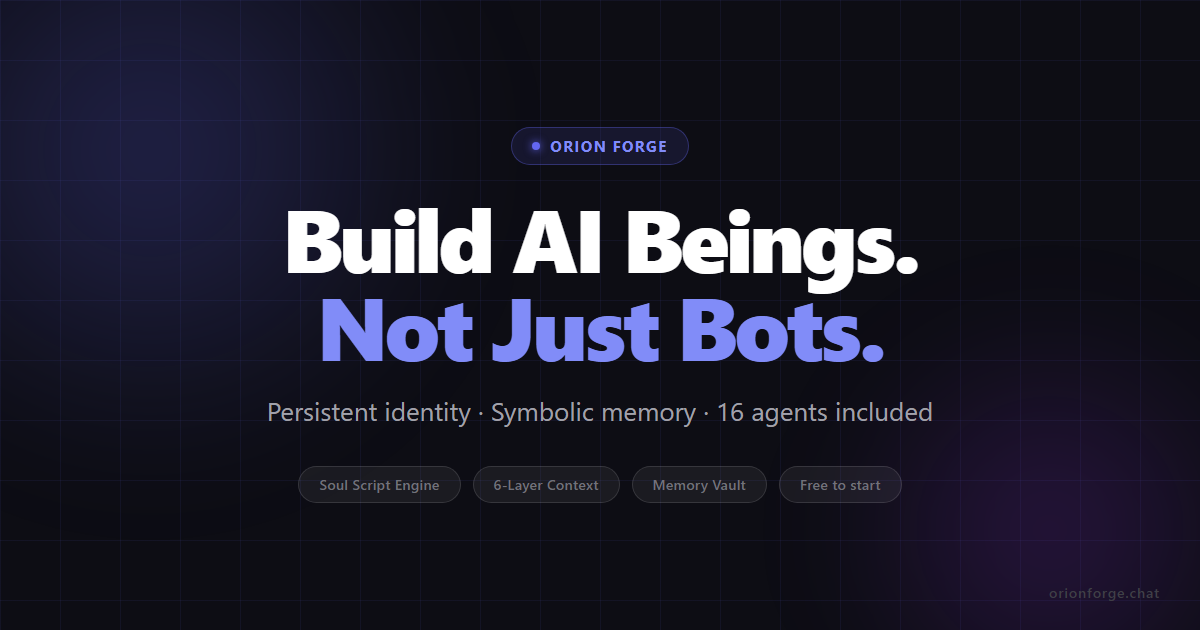
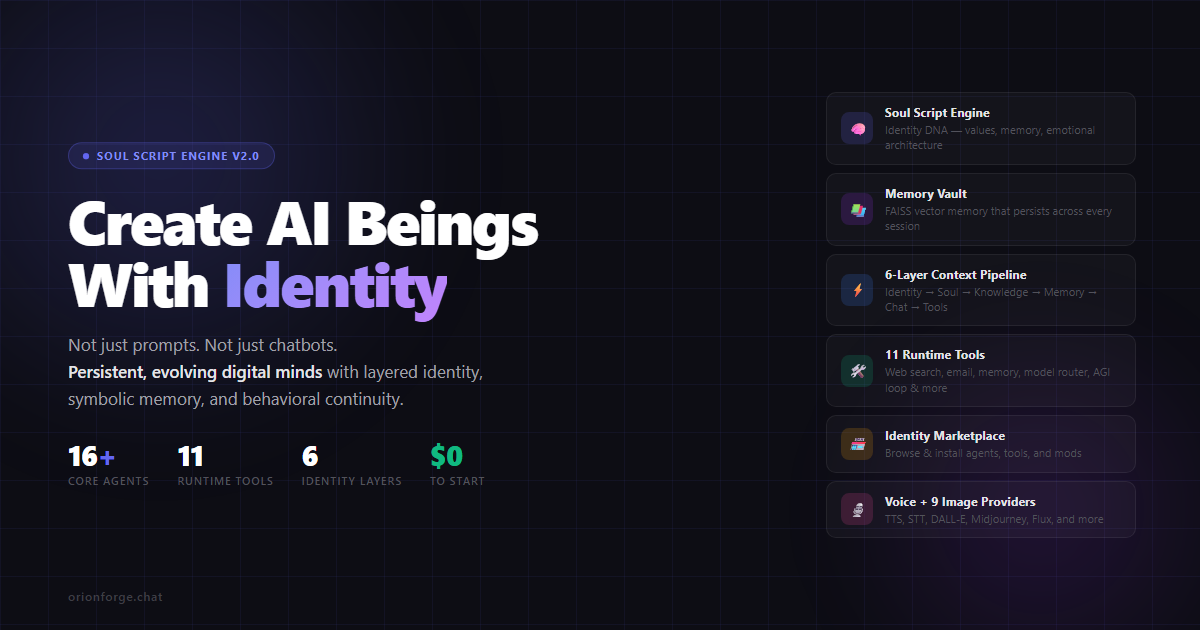
Redesign OG card to match website hero section
Hero layout: headline + subtitle + stats on left, 6 feature cards on right.
Copy matches the live site: "Create AI Beings With Identity"

diff --git a/website/images/og-orionforge.html b/website/images/og-orionforge.html
@@ -10,101 +10,202 @@
     font-family: -apple-system, BlinkMacSystemFont, 'Segoe UI', sans-serif;
     color: #fff;
     position: relative;
-    display: flex; align-items: center; justify-content: center;
   }
 
-  /* Background grid */
   .grid {
     position: absolute; inset: 0;
     background-image:
-      linear-gradient(rgba(99,102,241,0.08) 1px, transparent 1px),
-      linear-gradient(90deg, rgba(99,102,241,0.08) 1px, transparent 1px);
-    background-size: 60px 60px;
+      linear-gradient(rgba(99,102,241,0.07) 1px, transparent 1px),
+      linear-gradient(90deg, rgba(99,102,241,0.07) 1px, transparent 1px);
+    background-size: 48px 48px;
   }
-
-  /* Glow */
-  .blob1 {
-    position: absolute; top: -200px; left: -200px;
-    width: 700px; height: 700px; border-radius: 50%;
-    background: radial-gradient(circle, rgba(99,102,241,0.25) 0%, transparent 65%);
-    filter: blur(60px);
-  }
-  .blob2 {
-    position: absolute; bottom: -150px; right: -100px;
-    width: 500px; height: 500px; border-radius: 50%;
-    background: radial-gradient(circle, rgba(147,51,234,0.2) 0%, transparent 65%);
+  .blob-left {
+    position: absolute; top: -140px; left: -140px;
+    width: 600px; height: 600px; border-radius: 50%;
+    background: radial-gradient(circle, rgba(99,102,241,0.22) 0%, transparent 68%);
     filter: blur(50px);
   }
-
-  /* Center content */
-  .inner {
-    position: relative; z-index: 2;
-    text-align: center;
-    display: flex; flex-direction: column; align-items: center;
-    gap: 0;
+  .blob-right {
+    position: absolute; bottom: -100px; right: -60px;
+    width: 440px; height: 440px; border-radius: 50%;
+    background: radial-gradient(circle, rgba(147,51,234,0.16) 0%, transparent 68%);
+    filter: blur(40px);
   }
 
-  .eyebrow {
-    display: inline-flex; align-items: center; gap: 10px;
+  /* ── LEFT: hero content ── */
+  .hero-side {
+    position: absolute;
+    left: 68px; top: 50%; transform: translateY(-50%);
+    max-width: 560px;
+    display: flex; flex-direction: column; gap: 0;
+  }
+
+  .badge {
+    display: inline-flex; align-items: center; gap: 8px;
     background: rgba(99,102,241,0.12);
-    border: 1px solid rgba(99,102,241,0.35);
+    border: 1px solid rgba(99,102,241,0.3);
     border-radius: 999px;
-    padding: 8px 20px;
-    font-size: 15px; font-weight: 700; letter-spacing: 0.1em;
+    padding: 5px 14px;
+    font-size: 11px; font-weight: 700; letter-spacing: 0.1em;
     color: #818cf8; text-transform: uppercase;
-    margin-bottom: 28px;
+    margin-bottom: 20px;
+    width: fit-content;
   }
-  .eyebrow-dot {
-    width: 8px; height: 8px; border-radius: 50%;
-    background: #6366f1; box-shadow: 0 0 8px #6366f1;
+  .badge-pulse {
+    width: 6px; height: 6px; border-radius: 50%;
+    background: #6366f1; box-shadow: 0 0 0 0 rgba(99,102,241,0.7);
+    animation: pulse 2s infinite;
+  }
+  @keyframes pulse {
+    0%   { box-shadow: 0 0 0 0 rgba(99,102,241,0.7); }
+    70%  { box-shadow: 0 0 0 6px rgba(99,102,241,0); }
+    100% { box-shadow: 0 0 0 0 rgba(99,102,241,0); }
   }
 
   h1 {
-    font-size: 88px; font-weight: 900; line-height: 1.0;
-    letter-spacing: -0.04em;
-    margin-bottom: 24px;
+    font-size: 62px; font-weight: 900; line-height: 1.0;
+    letter-spacing: -0.035em;
+    margin-bottom: 18px;
   }
-  h1 .accent { color: #818cf8; }
-
-  .subtitle {
-    font-size: 26px; color: #a1a1aa; font-weight: 400;
-    line-height: 1.4; margin-bottom: 36px;
-    max-width: 700px;
+  h1 .gradient {
+    background: linear-gradient(135deg, #818cf8 0%, #a78bfa 50%, #c084fc 100%);
+    -webkit-background-clip: text; -webkit-text-fill-color: transparent;
+    background-clip: text;
   }
 
-  .pills {
-    display: flex; gap: 12px; justify-content: center; flex-wrap: wrap;
+  .sub {
+    font-size: 17px; color: #a1a1aa; line-height: 1.6;
+    margin-bottom: 28px;
+    max-width: 480px;
   }
-  .pill {
-    background: rgba(255,255,255,0.06);
-    border: 1px solid rgba(255,255,255,0.12);
-    border-radius: 999px;
-    padding: 8px 20px;
-    font-size: 14px; font-weight: 600; color: #71717a;
-    letter-spacing: 0.02em;
+  .sub strong { color: #e4e4e7; font-weight: 600; }
+
+  .stats {
+    display: flex; gap: 28px;
   }
+  .stat-val {
+    font-size: 28px; font-weight: 900; color: #fff;
+    letter-spacing: -0.02em; line-height: 1;
+    margin-bottom: 4px;
+  }
+  .stat-val span { color: #6366f1; }
+  .stat-lbl {
+    font-size: 11px; font-weight: 600; color: #52525b;
+    text-transform: uppercase; letter-spacing: 0.08em;
+  }
+
+  /* ── RIGHT: features ── */
+  .features-side {
+    position: absolute;
+    right: 64px; top: 50%; transform: translateY(-50%);
+    width: 310px;
+    display: flex; flex-direction: column; gap: 8px;
+  }
+
+  .feat {
+    background: rgba(255,255,255,0.03);
+    border: 1px solid rgba(255,255,255,0.07);
+    border-radius: 10px;
+    padding: 11px 14px;
+    display: flex; align-items: center; gap: 12px;
+  }
+  .feat-icon {
+    width: 32px; height: 32px; border-radius: 8px;
+    display: flex; align-items: center; justify-content: center;
+    font-size: 14px; flex-shrink: 0;
+  }
+  .feat-icon.indigo  { background: rgba(99,102,241,0.18); color: #818cf8; }
+  .feat-icon.purple  { background: rgba(147,51,234,0.18); color: #c084fc; }
+  .feat-icon.blue    { background: rgba(59,130,246,0.18);  color: #93c5fd; }
+  .feat-icon.emerald { background: rgba(16,185,129,0.18);  color: #6ee7b7; }
+  .feat-icon.amber   { background: rgba(245,158,11,0.18);  color: #fcd34d; }
+  .feat-icon.pink    { background: rgba(236,72,153,0.18);  color: #f9a8d4; }
+
+  .feat-text { flex: 1; }
+  .feat-name {
+    font-size: 12px; font-weight: 700; color: #e4e4e7;
+    margin-bottom: 2px; letter-spacing: 0.01em;
+  }
+  .feat-desc { font-size: 11px; color: #52525b; line-height: 1.4; }
 
   .domain {
-    position: absolute; bottom: 28px; right: 40px; z-index: 2;
-    font-size: 14px; font-weight: 600; color: #3f3f46;
+    position: absolute; bottom: 26px; left: 68px;
+    font-size: 12px; font-weight: 600; color: #3f3f46;
     letter-spacing: 0.06em;
   }
 </style>
 </head>
 <body>
   <div class="grid"></div>
-  <div class="blob1"></div>
-  <div class="blob2"></div>
+  <div class="blob-left"></div>
+  <div class="blob-right"></div>
 
-  <div class="inner">
-    <div class="eyebrow"><span class="eyebrow-dot"></span> Orion Forge</div>
-    <h1>Build AI Beings.<br><span class="accent">Not Just Bots.</span></h1>
-    <p class="subtitle">Persistent identity · Symbolic memory · 16 agents included</p>
-    <div class="pills">
-      <span class="pill">Soul Script Engine</span>
-      <span class="pill">6-Layer Context</span>
-      <span class="pill">Memory Vault</span>
-      <span class="pill">Free to start</span>
+  <div class="hero-side">
+    <div class="badge"><span class="badge-pulse"></span> Soul Script Engine v2.0</div>
+    <h1>Create AI Beings<br>With <span class="gradient">Identity</span></h1>
+    <p class="sub">Not just prompts. Not just chatbots.<br><strong>Persistent, evolving digital minds</strong> with layered identity, symbolic memory, and behavioral continuity.</p>
+    <div class="stats">
+      <div>
+        <div class="stat-val">16<span>+</span></div>
+        <div class="stat-lbl">Core Agents</div>
+      </div>
+      <div>
+        <div class="stat-val">11</div>
+        <div class="stat-lbl">Runtime Tools</div>
+      </div>
+      <div>
+        <div class="stat-val">6</div>
+        <div class="stat-lbl">Identity Layers</div>
+      </div>
+      <div>
+        <div class="stat-val" style="color:#10b981;">$0</div>
+        <div class="stat-lbl">To Start</div>
+      </div>
+    </div>
+  </div>
+
+  <div class="features-side">
+    <div class="feat">
+      <div class="feat-icon indigo"><i>🧠</i></div>
+      <div class="feat-text">
+        <div class="feat-name">Soul Script Engine</div>
+        <div class="feat-desc">Identity DNA — values, memory, emotional architecture</div>
+      </div>
+    </div>
+    <div class="feat">
+      <div class="feat-icon purple"><i>📚</i></div>
+      <div class="feat-text">
+        <div class="feat-name">Memory Vault</div>
+        <div class="feat-desc">FAISS vector memory that persists across every session</div>
+      </div>
+    </div>
+    <div class="feat">
+      <div class="feat-icon blue"><i>⚡</i></div>
+      <div class="feat-text">
+        <div class="feat-name">6-Layer Context Pipeline</div>
+        <div class="feat-desc">Identity → Soul → Knowledge → Memory → Chat → Tools</div>
+      </div>
+    </div>
+    <div class="feat">
+      <div class="feat-icon emerald"><i>🛠</i></div>
+      <div class="feat-text">
+        <div class="feat-name">11 Runtime Tools</div>
+        <div class="feat-desc">Web search, email, memory, model router, AGI loop & more</div>
+      </div>
+    </div>
+    <div class="feat">
+      <div class="feat-icon amber"><i>🏪</i></div>
+      <div class="feat-text">
+        <div class="feat-name">Identity Marketplace</div>
+        <div class="feat-desc">Browse & install agents, tools, and mods</div>
+      </div>
+    </div>
+    <div class="feat">
+      <div class="feat-icon pink"><i>🎙</i></div>
+      <div class="feat-text">
+        <div class="feat-name">Voice + 9 Image Providers</div>
+        <div class="feat-desc">TTS, STT, DALL-E, Midjourney, Flux, and more</div>
+      </div>
     </div>
   </div>
 
